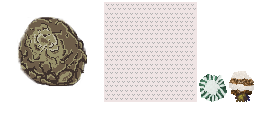
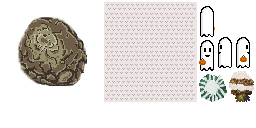
New abe assets (He is the worsterest)

Changed region(s): [[0.7812, 0.0312, 1.0, 0.5625], [0.9375, 0.2812, 0.9688, 0.3125]]

diff --git a/Spooky/core/src/com/vgdc/objects/Player.java b/Spooky/core/src/com/vgdc/objects/Player.java
@@ -4,6 +4,8 @@ import com.badlogic.gdx.graphics.Pixmap;
 import com.badlogic.gdx.graphics.Pixmap.Format;
 import com.badlogic.gdx.graphics.Texture;
 import com.badlogic.gdx.graphics.g2d.SpriteBatch;
+import com.badlogic.gdx.graphics.g2d.TextureRegion;
+import com.vgdc.spooky.Assets;
 
 /**
  * Our Player: A big black square.
@@ -13,13 +15,17 @@ import com.badlogic.gdx.graphics.g2d.SpriteBatch;
 public class Player extends AbstractGameObject
 {
 	private Texture tex;
+	private TextureRegion reg;
 
 	Pixmap pixmap = new Pixmap(200, 200, Format.RGBA8888);
 	public Player()
 	{
-		pixmap.setColor(0f,0f,0f,1f);
-		pixmap.fillCircle(pixmap.getWidth()/2, pixmap.getHeight()/2, 50);
-		tex = new Texture(pixmap);
+
+//		pixmap.setColor(0f,0f,0f,1f);
+//		pixmap.fillCircle(pixmap.getWidth()/2, pixmap.getHeight()/2, 50);
+//		tex = new Texture(pixmap);
+		reg = new TextureRegion(Assets.instance.front.front1);
+		dimension.set(1, 1);
 		bounds.set(origin.x,origin.y, dimension.x * .75f, dimension.y * .75f);
 		origin.set(dimension.x/2, dimension.y/2);
 		terminalVelocity.set(3.0f, 3.0f);
@@ -28,10 +34,10 @@ public class Player extends AbstractGameObject
 	}
 	@Override
 	public void render(SpriteBatch batch) {
-		batch.draw(tex, position.x, position.y, origin.x,
-				origin.y, dimension.x, dimension.y, scale.x,
-				scale.y, rotation, 0, 0, tex.getWidth(),
-				tex.getHeight(), false, false);
+		batch.draw(reg.getTexture(), position.x, position.y,
+				origin.x, origin.y, dimension.x, dimension.y,
+				scale.x, scale.y, rotation, reg.getRegionX(), reg.getRegionY(),
+				reg.getRegionWidth(), reg.getRegionHeight(), false, false);
 	}
 
 }

diff --git a/Spooky/core/src/com/vgdc/spooky/Assets.java b/Spooky/core/src/com/vgdc/spooky/Assets.java
@@ -32,6 +32,10 @@ public class Assets implements Disposable, AssetErrorListener
 	public AssetTiles snowTiles;
 	public AssetTree tree;
 	public AssetRock rock;
+	public AssetAbe front;
+	public AssetAbeBack back;
+	public AssetAbeLeft left;
+	public AssetAbeRight right;
 
 	public void init (AssetManager assetManager) {
 		this.assetManager = assetManager;
@@ -63,6 +67,11 @@ public class Assets implements Disposable, AssetErrorListener
 		snowTiles = new AssetTiles(atlas);
 		tree = new AssetTree(atlas);
 		rock = new AssetRock(atlas);
+		front = new AssetAbe(atlas);
+		back = new AssetAbeBack(atlas);
+		left = new AssetAbeLeft(atlas);
+		right = new AssetAbeRight(atlas);
+		
 	}
 	@Override
 	public void dispose() {
@@ -117,7 +126,44 @@ public class Assets implements Disposable, AssetErrorListener
 			bush1 = atlas.findRegion("bush");
 		}
 	}
+	
+	public class AssetAbe
+	{
 
+		public final AtlasRegion front1;
+		public AssetAbe(TextureAtlas atlas)
+		{
+			front1 = atlas.findRegion("abe");
+		}
+	}
+	public class AssetAbeBack
+	{
+
+		public final AtlasRegion back1;
+		public AssetAbeBack(TextureAtlas atlas)
+		{
+			back1 = atlas.findRegion("abe-back");
+		}
+	}
+	public class AssetAbeLeft
+	{
+
+		public final AtlasRegion bush1;
+		public AssetAbeLeft(TextureAtlas atlas)
+		{
+			bush1 = atlas.findRegion("abe-left");
+		}
+	}
+	public class AssetAbeRight
+	{
+
+		public final AtlasRegion bush1;
+		public AssetAbeRight(TextureAtlas atlas)
+		{
+			bush1 = atlas.findRegion("abe-right");
+		}
+	}
+	
 
 }
 

diff --git a/Spooky/desktop/src/com/vgdc/spooky/desktop/DesktopLauncher.java b/Spooky/desktop/src/com/vgdc/spooky/desktop/DesktopLauncher.java
@@ -7,7 +7,7 @@ import com.badlogic.gdx.tools.texturepacker.TexturePacker.Settings;
 import com.vgdc.spooky.Spooky;
 
 public class DesktopLauncher {
-	private static boolean rebuildAtlas  = false;
+	private static boolean rebuildAtlas  = true;
 	private static boolean drawDebugOutline = false;
 	public static void main (String[] arg) {
 		if(rebuildAtlas)

diff --git a/Spooky/core/src/com/vgdc/utils/Constants.java b/Spooky/core/src/com/vgdc/utils/Constants.java
@@ -7,7 +7,7 @@ package com.vgdc.utils;
 public class Constants {
 
 	// Are we debugging map generation?
-	public static final boolean DEBUGGING_MAP = true;
+	public static final boolean DEBUGGING_MAP = false;
 
 	// Our default map size (in tiles)
 	public static final int MAP_WIDTH = 32;
